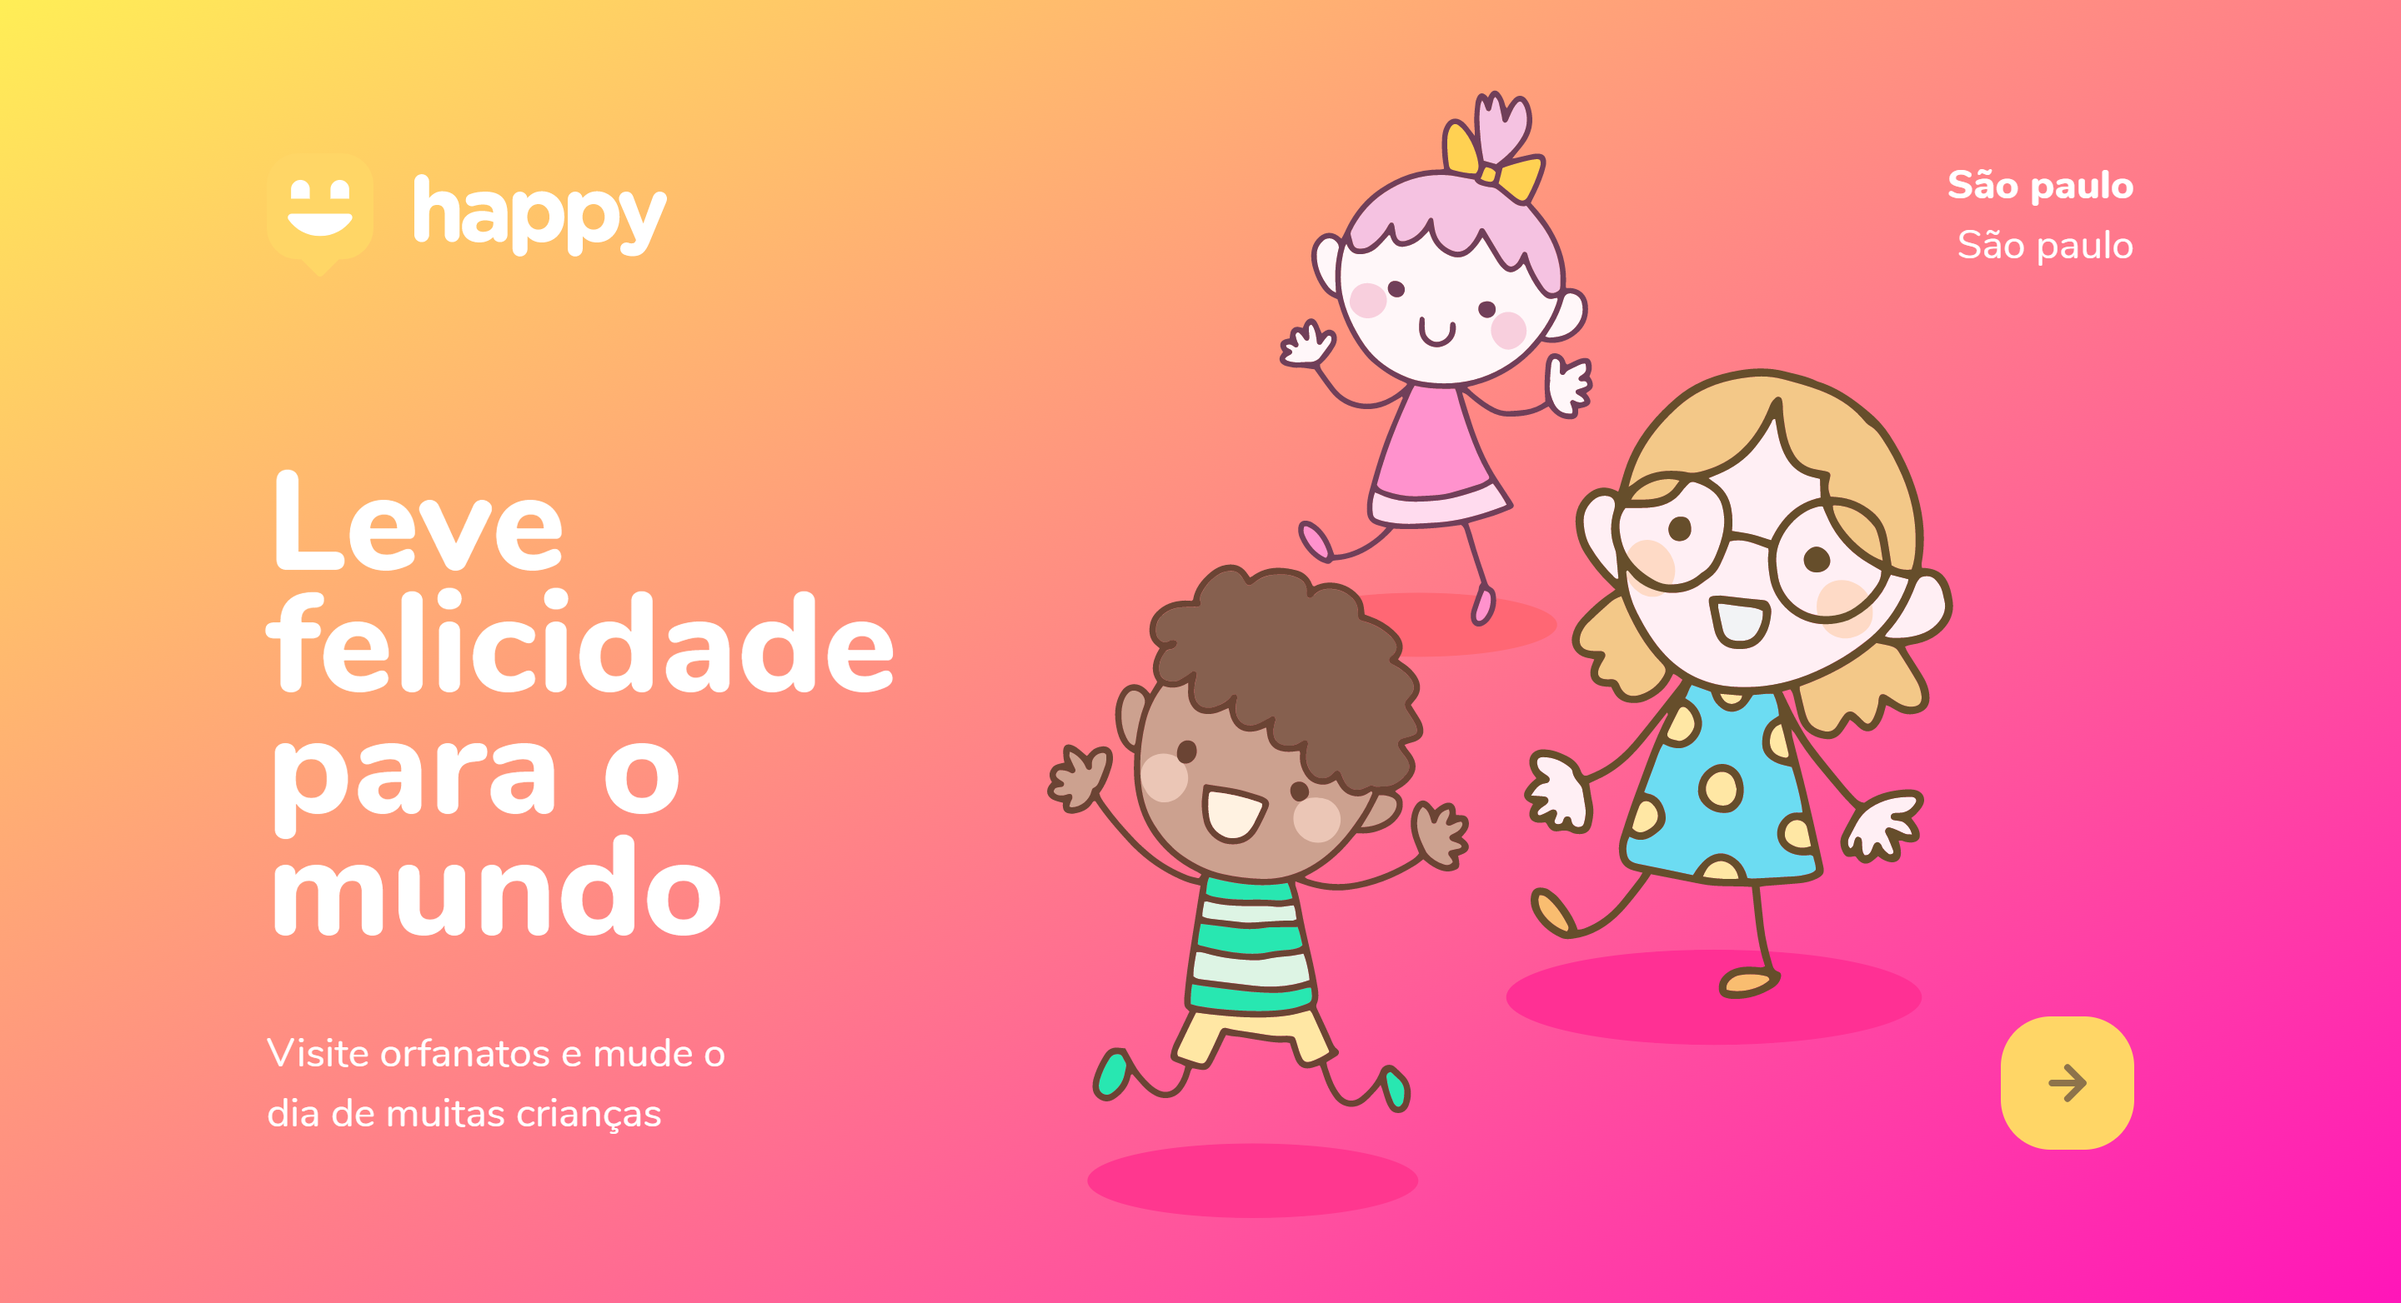
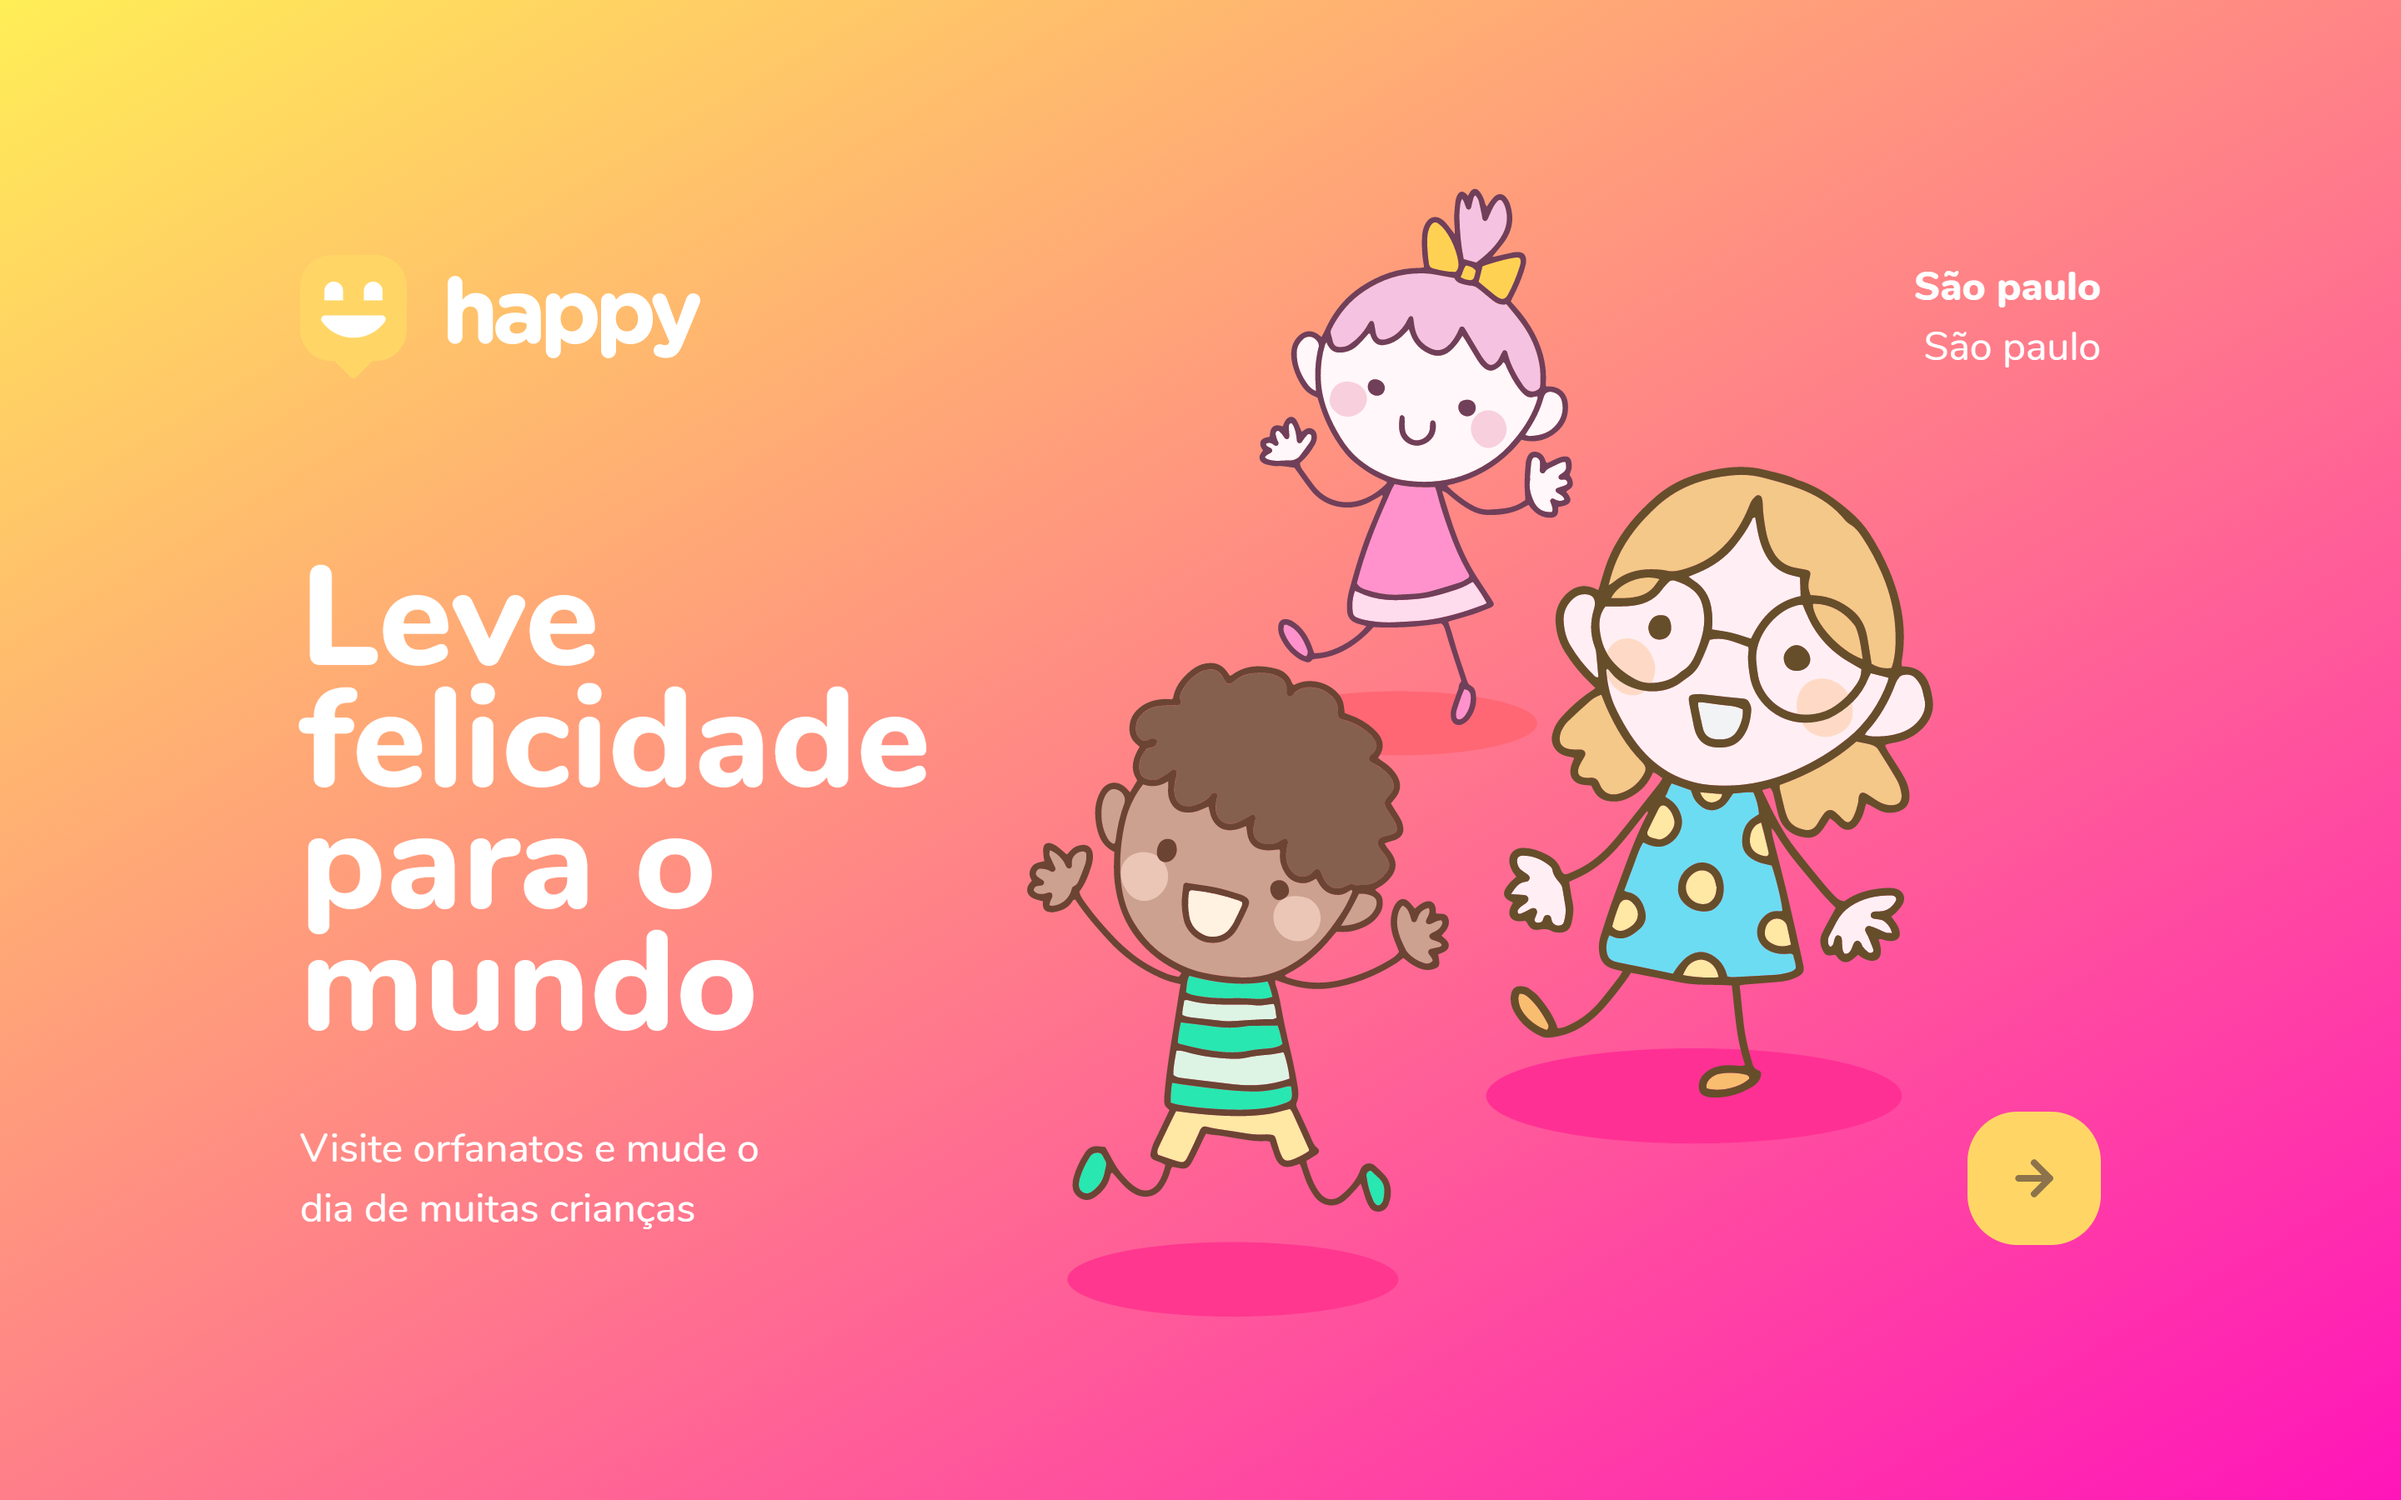
adding the map

diff --git a/public/css/page-orphanages.css b/public/css/page-orphanages.css
@@ -1,0 +1,118 @@
+#page-orphanages {
+    width: 100%;
+    height: 100%;
+
+    display: flex;
+}
+
+
+
+/* Lateral */
+aside {
+    width: clamp(24rem, 25vw, 44rem);
+    background: linear-gradient(329.54deg, #ff15b9 0%, #ffee56 100%) no-repeat;
+    padding: clamp(3rem, 5vw, 8rem);
+
+    display: flex;
+    flex-direction: column;
+    justify-content: space-between;
+}
+aside h2 {
+    margin-top: 6.4rem;
+    font: 800 clamp(2rem, 5vw, 3.6rem)/1.1 'Nunito', sans-serif;
+}
+aside p {
+    margin-top: 2.4rem;
+    font: 400 1.6rem/1.5 'Nunito', sans-serif;
+}
+aside footer {
+    margin-top: .8rem;
+}
+
+
+
+#mapid {
+    width: 100%;
+    height: 100%;
+
+    animation-delay: 200ms;
+}
+
+
+
+/* Button */
+a.create-orphanage {
+    position: absolute;
+    right: 4rem;
+    bottom: 4rem;
+
+    z-index: 410;
+
+    width: 6.4rem;
+    height: 6.4rem;
+
+    background: #ff37a8;
+    border: 0;
+    border-radius: 2rem;
+
+    display: flex;
+    justify-content: center;
+    align-items: center;
+
+    box-shadow: 17.2868px 27.65px 41.48 rgba(166, 156, 23, 0.16);
+
+    transition: background-color 300ms;
+}
+a.create-orphanage:hover {
+    background: #eb0aa4;
+}
+
+
+
+/* Map */
+.leaflet-popup-content-wrapper {
+    margin-left: 1.8rem;
+    background: linear-gradient(329.54deg, #ff15b9 0%, #ffee56 100%) no-repeat;
+    /*rgba(255, 255, 255, 0.8);*/
+    border-radius: 20px;
+}
+.leaflet-popup-content {
+    color: #ffffff;
+
+    margin: .8rem, 1.2rem;
+
+    display: flex;
+    align-items: center;
+    justify-content: space-between;
+}
+
+.leaflet-popup-content a {/* Button */
+    width: 4rem;
+    height: 4rem;
+
+    background: #ffa876;
+    box-shadow: 17.2868px 27.65px 41.48 rgba(166, 156, 23, 0.16);
+    /* Deslocamento X | Y, Blur, Cor */
+    border-radius: 12px;
+
+    display: flex;
+    align-items: center;
+    justify-content: center;
+
+    transition: background-color .2s;
+}
+.leaflet-popup-content a:hover {
+    background: #ff8288;
+}
+.leaflet-popup {
+	position: absolute;
+	text-align: center;
+	margin-bottom: 10px;
+	}
+.leaflet-popup-tip {
+    display: none;
+}
+.leaflet-container {
+    font: 700 2rem/1 'Nunito', sans-serif;
+    z-index: 5;
+}    

diff --git a/orphanages.html b/orphanages.html
@@ -1,0 +1,45 @@
+<!DOCTYPE html>
+<html lang="pt-br">
+<head>
+    <meta charset="UTF-8">
+    <meta name="viewport" content="width=device-width, initial-scale=1.0"><!--adaptável para cel & tablets (ativa o @media)-->
+    <title>Localize um orfanato | Happy</title>
+
+    <link rel="stylesheet" href="https://unpkg.com/leaflet@1.7.1/dist/leaflet.css"
+   integrity="sha512-xodZBNTC5n17Xt2atTPuE1HxjVMSvLVW9ocqUKLsCC5CXdbqCmblAshOMAS6/keqq/sMZMZ19scR4PsZChSR7A=="
+   crossorigin=""/><!-- Biblioteca | MAPA -->
+    <!-- Make sure you put this AFTER Leaflet's CSS -->
+ <script src="https://unpkg.com/leaflet@1.7.1/dist/leaflet.js"
+ integrity="sha512-XQoYMqMTK8LvdxXYG3nZ448hOEQiglfqkJs1NOQV44cWnUrBc8PkAOcXy20w0vlaXaVUearIOBhiXZ5V3ynxwA=="
+ crossorigin=""></script>
+
+    <link rel="icon" href="./public/images/logo-icon.png">
+    <link rel="stylesheet" href="./public/css/main.css">
+    <link rel="stylesheet" href="./public/css/animations.css">
+    <link rel="stylesheet" href="./public/css/page-orphanages.css">
+    
+    <link href="https://fonts.googleapis.com/css2?family=Nunito:wght@400;600;700;800&display=swap" rel="stylesheet">
+</head>
+<body>
+    <div id="page-orphanages">
+        <aside class="animate-right">
+            <header>
+                <img src="./public/images/map-marker.svg" alt="Logo Happy">
+
+                <h2>Escolha um orfanato no mapa</h2>
+                <p>Muitas crianças estão esperando sua visita :)</p>
+            </header>
+            <footer>
+                <strong>São paulo</strong>
+                <p>São paulo</p>
+            </footer>
+        </aside>
+        <div id="mapid" class="animate-appear">
+            <a href="create-orphanage.html" class="create-orphanage" title="Cadastre um orfanato">
+                <img src="./public/images/plus.svg" alt="Criar orfanato">
+            </a>
+        </div>
+    </div>
+    <script type="text/javascript" src="./public/scripts/page-orphanages.js"></script>
+</body>
+</html>

diff --git a/public/css/animations.css b/public/css/animations.css
@@ -1,4 +1,4 @@
-/* animação */
+/* animação | index */
 @keyframes up {
     from { 
         opacity: 0;
@@ -14,4 +14,39 @@
     animation-duration: 300ms;
     animation-fill-mode: backwards;
     /*animation: name duration timing-function delay iteration-count direction fill-mode;*/
+}
+
+
+
+/* animação | orphanages */
+@keyframes right {
+    from { 
+        opacity: 0;
+        transform: translateX(-100%)
+    }
+    to { 
+        opacity: 1;
+        transform: translateX(0)
+    }
+}
+.animate-right {
+    animation-name: right;
+    animation-duration: 300ms;
+}
+
+
+
+/* animação | orphanages / map*/
+@keyframes appear {
+    from { 
+        opacity: 0;
+    }
+    to { 
+        opacity: 1;
+    }
+}
+.animate-appear {
+    animation-name: appear;
+    animation-duration: 300ms;
+    animation-fill-mode: backwards; /* animação para no 'to', ou seja, não da reset para o 'from'*/
 }

diff --git a/public/scripts/page-orphanages.js b/public/scripts/page-orphanages.js
@@ -1,0 +1,25 @@
+//create map
+const map = L.map('mapid').setView([-23.6615274, -46.6606644], 15);// ([latitude, longitude], zoom)
+
+//create an add tileLayer
+L.tileLayer('https://{s}.tile.openstreetmap.org/{z}/{x}/{y}.png').addTo(map)
+
+//create icon
+const icon = L.icon({
+    iconUrl: "./public/images/map-marker.svg",
+    iconSize: [58, 68],
+    iconAnchor: [29, 68],
+    popupAnchor: [170, 2]
+})
+//create popup overlay
+const popup = L.popup({
+    closeButton: false,
+    className: "map-popup",
+    minWidth: 240,
+    minHeight: 240
+}).setContent('Lar das meninas <a href="orphanage.html?id=1" class="choose-orphanage"> <img src="./public/images/arrow-white.svg"> </a>')
+
+//create and add marker
+L.marker([-23.6615274, -46.6606644], {icon})
+    .addTo(map)
+    .bindPopup(popup)

diff --git a/index.html b/index.html
@@ -28,7 +28,7 @@
                 <section class="visit">
                     <p class="animate-up">Visite orfanatos e mude o dia de muitas crianças</p>
         
-                    <a href="#" title="Visite orfanatos" class="animate-up">
+                    <a href="orphanages.html" title="Visite orfanatos" class="animate-up">
                         <img src="./public/images/arrow.svg" alt="Ir para o mapa">
                     </a>
                 </section>

diff --git a/public/css/main.css b/public/css/main.css
@@ -2,6 +2,7 @@
 * {
     margin: 0;
     padding: 0;
+    box-sizing: border-box;
 }
 :root {
     font-size: 62.5%;

diff --git a/README.md b/README.md
@@ -41,14 +41,16 @@ Project developed to bring happiness to the world, connecting more people to orp
 This project was developed with the following technologies:
 
 - [Node.js](https://nodejs.org/en/)
+- [Express](https://expressjs.com/pt-br/)
 - [SQLite](https://www.sqlite.org/index.html)
+- [Nunjucks](https://mozilla.github.io/nunjucks/)
 
 ## Layout 🚧
 #### Web Screenshot
 <div style="display: flex; flex-direction: 'column'; align-items: 'center';">
-<!-- Responsive, 1440 x 782, 70% (Laptop L - 1440px)-->
+<!-- Responsive, 1440 x 900, 50% (Laptop L - 1440px)-->
    <img src="./.github/desktop-index.png" width="400px">
-   <img src="./.github/desktop-random.png" width="400px">
+   <img src="./.github/desktop-orphanages.png" width="400px">
 </div>
 
 #### Mobile Screenshot
@@ -69,6 +71,13 @@ $ git clone https://github.com/NyctibiusVII/NLW-3-Discovery.git
 # Access the project folder at the command prompt
 $ cd NLW3
 
+# Install the dependencies
+$ npm install
+
+# Run the script "dev"
+$ npm run dev
+
+# The project will start at the door: 5000 - acesse http://localhost:5000 
 # working in progress...
 ```
 
